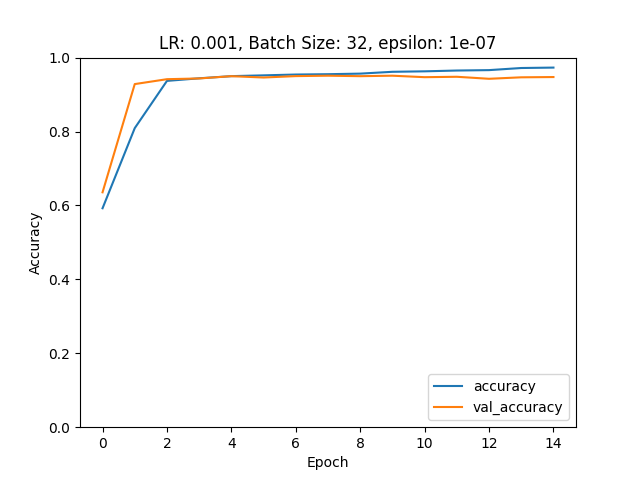
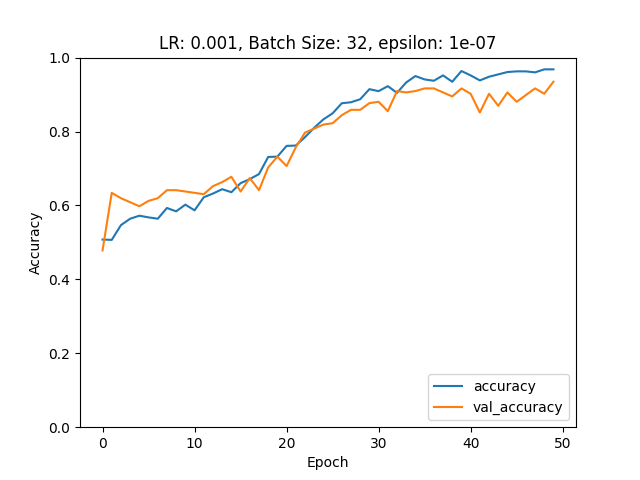
final

diff --git a/hyperparameterTesting.py b/hyperparameterTesting.py
@@ -13,13 +13,15 @@ def preprocess_image(image, label):
     image = tf.image.random_flip_up_down(image)
     image = tf.image.random_brightness(image, max_delta=0.1)
     image = tf.image.random_contrast(image, lower=0.8, upper=1.2)
+    image = tf.image.random_jpeg_quality(image, min_jpeg_quality=75, max_jpeg_quality=100)
+    image = tf.image.random_crop(image, size=[200, 200, 1])
+    image = tf.image.resize(image, [224, 224])
     return image, label
-
 
 learning_rates = [0.001, 0.0005]
 epsilons = [1e-07, 1e-08]
 
-batch_size = 32
+batch_size = 64
 
 with open('hyperparameter_tuning_results.csv', mode='w', newline='') as file:
     writer = csv.writer(file)
@@ -27,64 +29,56 @@ with open('hyperparameter_tuning_results.csv', mode='w', newline='') as file:
 
     for lr in learning_rates:
         for ep in epsilons:
-                dataset, info = tfds.load('malaria', split='train', with_info=True, as_supervised=True)
-                dataset_size = info.splits['train'].num_examples
-                train_size = int(0.8 * dataset_size)
-                val_size = dataset_size - train_size
-                
-                
-                train_dataset = dataset.take(train_size).map(preprocess_image, num_parallel_calls=tf.data.AUTOTUNE)
-                val_dataset = dataset.skip(train_size).map(preprocess_image, num_parallel_calls=tf.data.AUTOTUNE)
-                model = tf.keras.Sequential([
-                    tf.keras.layers.Input(shape=(224, 224, 1)),
-                    tf.keras.layers.Conv2D(32, (3, 3), activation='relu'),
-                    tf.keras.layers.MaxPooling2D((2, 2)),
-                    tf.keras.layers.Conv2D(64, (3, 3), activation='relu'),
-                    tf.keras.layers.MaxPooling2D((2, 2)),
-                    tf.keras.layers.Conv2D(128, (3, 3), activation='relu'),
-                    tf.keras.layers.MaxPooling2D((2, 2)),
-                    tf.keras.layers.Flatten(),
-                    tf.keras.layers.Dense(128, activation='relu'),
-                    tf.keras.layers.Dense(1, activation='sigmoid')
-                ])
+            dataset, info = tfds.load('malaria', split='train', with_info=True, as_supervised=True)
+            dataset_size = info.splits['train'].num_examples
+            sample_size = int(0.1 * dataset_size) 
+            train_size = int(0.8 * sample_size)
+            val_size = sample_size - train_size
 
-                model.compile(optimizer=tf.keras.optimizers.Adam(learning_rate=lr,
-                                                                    beta_1=0.9,
-                                                                    beta_2=0.999,
-                                                                    epsilon=ep,
-                                                                    amsgrad=False,
-                                                                    weight_decay=None,
-                                                                    clipnorm=None,
-                                                                    clipvalue=None,
-                                                                    global_clipnorm=None,
-                                                                    use_ema=False,
-                                                                    ema_momentum=0.99,
-                                                                    ema_overwrite_frequency=None,
-                                                                    loss_scale_factor=None,
-                                                                    gradient_accumulation_steps=None,
-),
-                              loss='binary_crossentropy',
-                              metrics=['accuracy'])
+            dataset = dataset.take(sample_size)
+            train_dataset = dataset.take(train_size).map(preprocess_image, num_parallel_calls=tf.data.AUTOTUNE)
+            val_dataset = dataset.skip(train_size).map(preprocess_image, num_parallel_calls=tf.data.AUTOTUNE)
 
-                start_time = time.time()
-                history = model.fit(train_dataset.batch(32),
-                    epochs=15, 
-                    validation_data=val_dataset.batch(32),
-                    verbose=1)
-                training_time = time.time() - start_time
+            model = tf.keras.Sequential([
+                tf.keras.layers.Input(shape=(224, 224, 1)),
+                tf.keras.layers.Conv2D(32, (3, 3), activation='relu'),
+                tf.keras.layers.MaxPooling2D((2, 2)),
+                tf.keras.layers.Dropout(0.25),
+                tf.keras.layers.Conv2D(64, (3, 3), activation='relu'),
+                tf.keras.layers.MaxPooling2D((2, 2)),
+                tf.keras.layers.Dropout(0.25),
+                tf.keras.layers.Conv2D(128, (3, 3), activation='relu'),
+                tf.keras.layers.MaxPooling2D((2, 2)),
+                tf.keras.layers.Dropout(0.25),
+                tf.keras.layers.Flatten(),
+                tf.keras.layers.Dense(128, activation='relu'),
+                tf.keras.layers.Dropout(0.5),
+                tf.keras.layers.Dense(1, activation='sigmoid')
+            ])
 
-                loss, accuracy = model.evaluate(val_dataset.batch(32), verbose=1)
-                print(f'Learning Rate: {lr}, epsilon: {ep}, Accuracy: {accuracy:.2f}, Training Time: {training_time:.2f} seconds')
+            model.compile(optimizer=tf.keras.optimizers.Adam(learning_rate=lr, epsilon=ep),
+                          loss='binary_crossentropy',
+                          metrics=['accuracy'])
 
-                writer.writerow([lr, batch_size, ep, accuracy, training_time])
+            start_time = time.time()
+            history = model.fit(train_dataset.batch(32),
+                                epochs=50,
+                                validation_data=val_dataset.batch(32),
+                                verbose=1)
+            training_time = time.time() - start_time
 
-                plt.figure()
-                plt.plot(history.history['accuracy'], label='accuracy')
-                plt.plot(history.history['val_accuracy'], label='val_accuracy')
-                plt.xlabel('Epoch')
-                plt.ylabel('Accuracy')
-                plt.ylim([0, 1])
-                plt.legend(loc='lower right')
-                plt.title(f'LR: {lr}, Batch Size: {batch_size}, epsilon: {ep}')
-                plt.savefig(f'history_lr{lr}_bs{batch_size}_opt{ep}.png')
-                plt.close()
+            loss, accuracy = model.evaluate(val_dataset.batch(32), verbose=1)
+            print(f'Learning Rate: {lr}, epsilon: {ep}, Accuracy: {accuracy:.2f}, Training Time: {training_time:.2f} seconds')
+
+            writer.writerow([lr, batch_size, ep, accuracy, training_time])
+
+            plt.figure()
+            plt.plot(history.history['accuracy'], label='accuracy')
+            plt.plot(history.history['val_accuracy'], label='val_accuracy')
+            plt.xlabel('Epoch')
+            plt.ylabel('Accuracy')
+            plt.ylim([0, 1])
+            plt.legend(loc='lower right')
+            plt.title(f'LR: {lr}, Batch Size: {batch_size}, epsilon: {ep}')
+            plt.savefig(f'history_lr{lr}_bs{batch_size}_opt{ep}.png')
+            plt.close()

diff --git a/resnetFineTune.py b/resnetFineTune.py
@@ -12,17 +12,20 @@ def preprocess_image(image, label):
     image = tf.image.random_flip_up_down(image)
     image = tf.image.random_brightness(image, max_delta=0.1)
     image = tf.image.random_contrast(image, lower=0.8, upper=1.2)
+    image = tf.image.random_jpeg_quality(image, min_jpeg_quality=75, max_jpeg_quality=100)
     return image, label
 
-batch_size = 32
+batch_size = 64
 learning_rate = 0.001
 epsilon = 1e-07
 
 dataset, info = tfds.load('malaria', split='train', with_info=True, as_supervised=True)
 dataset_size = info.splits['train'].num_examples
-train_size = int(0.8 * dataset_size)
-val_size = dataset_size - train_size
+sample_size = int(0.2 * dataset_size)  
+train_size = int(0.8 * sample_size)
 
+val_size = sample_size - train_size
+dataset = dataset.take(sample_size)
 train_dataset = dataset.take(train_size).map(preprocess_image, num_parallel_calls=tf.data.AUTOTUNE)
 val_dataset = dataset.skip(train_size).map(preprocess_image, num_parallel_calls=tf.data.AUTOTUNE)
 
@@ -43,7 +46,7 @@ model.compile(optimizer=tf.keras.optimizers.Adam(learning_rate=learning_rate, ep
 
 start_time = time.time()
 history = model.fit(train_dataset.batch(batch_size),
-                    epochs=20, 
+                    epochs=50, 
                     validation_data=val_dataset.batch(batch_size),
                     verbose=1)
 training_time = time.time() - start_time

diff --git a/vgg16FineTuned.py b/vgg16FineTuned.py
@@ -12,6 +12,7 @@ def preprocess_image(image, label):
     image = tf.image.random_flip_up_down(image)
     image = tf.image.random_brightness(image, max_delta=0.1)
     image = tf.image.random_contrast(image, lower=0.8, upper=1.2)
+    image = tf.image.random_jpeg_quality(image, min_jpeg_quality=75, max_jpeg_quality=100)
     return image, label
 
 batch_size = 32
@@ -20,9 +21,11 @@ epsilon = 1e-07
 
 dataset, info = tfds.load('malaria', split='train', with_info=True, as_supervised=True)
 dataset_size = info.splits['train'].num_examples
-train_size = int(0.8 * dataset_size)
-val_size = dataset_size - train_size
+sample_size = int(0.1 * dataset_size) 
+train_size = int(0.8 * sample_size)
 
+val_size = sample_size - train_size
+dataset = dataset.take(sample_size)
 train_dataset = dataset.take(train_size).map(preprocess_image, num_parallel_calls=tf.data.AUTOTUNE)
 val_dataset = dataset.skip(train_size).map(preprocess_image, num_parallel_calls=tf.data.AUTOTUNE)
 
@@ -43,7 +46,7 @@ model.compile(optimizer=tf.keras.optimizers.Adam(learning_rate=learning_rate, ep
 
 start_time = time.time()
 history = model.fit(train_dataset.batch(batch_size),
-                    epochs=20, 
+                    epochs=50, 
                     validation_data=val_dataset.batch(batch_size),
                     verbose=1)
 training_time = time.time() - start_time
